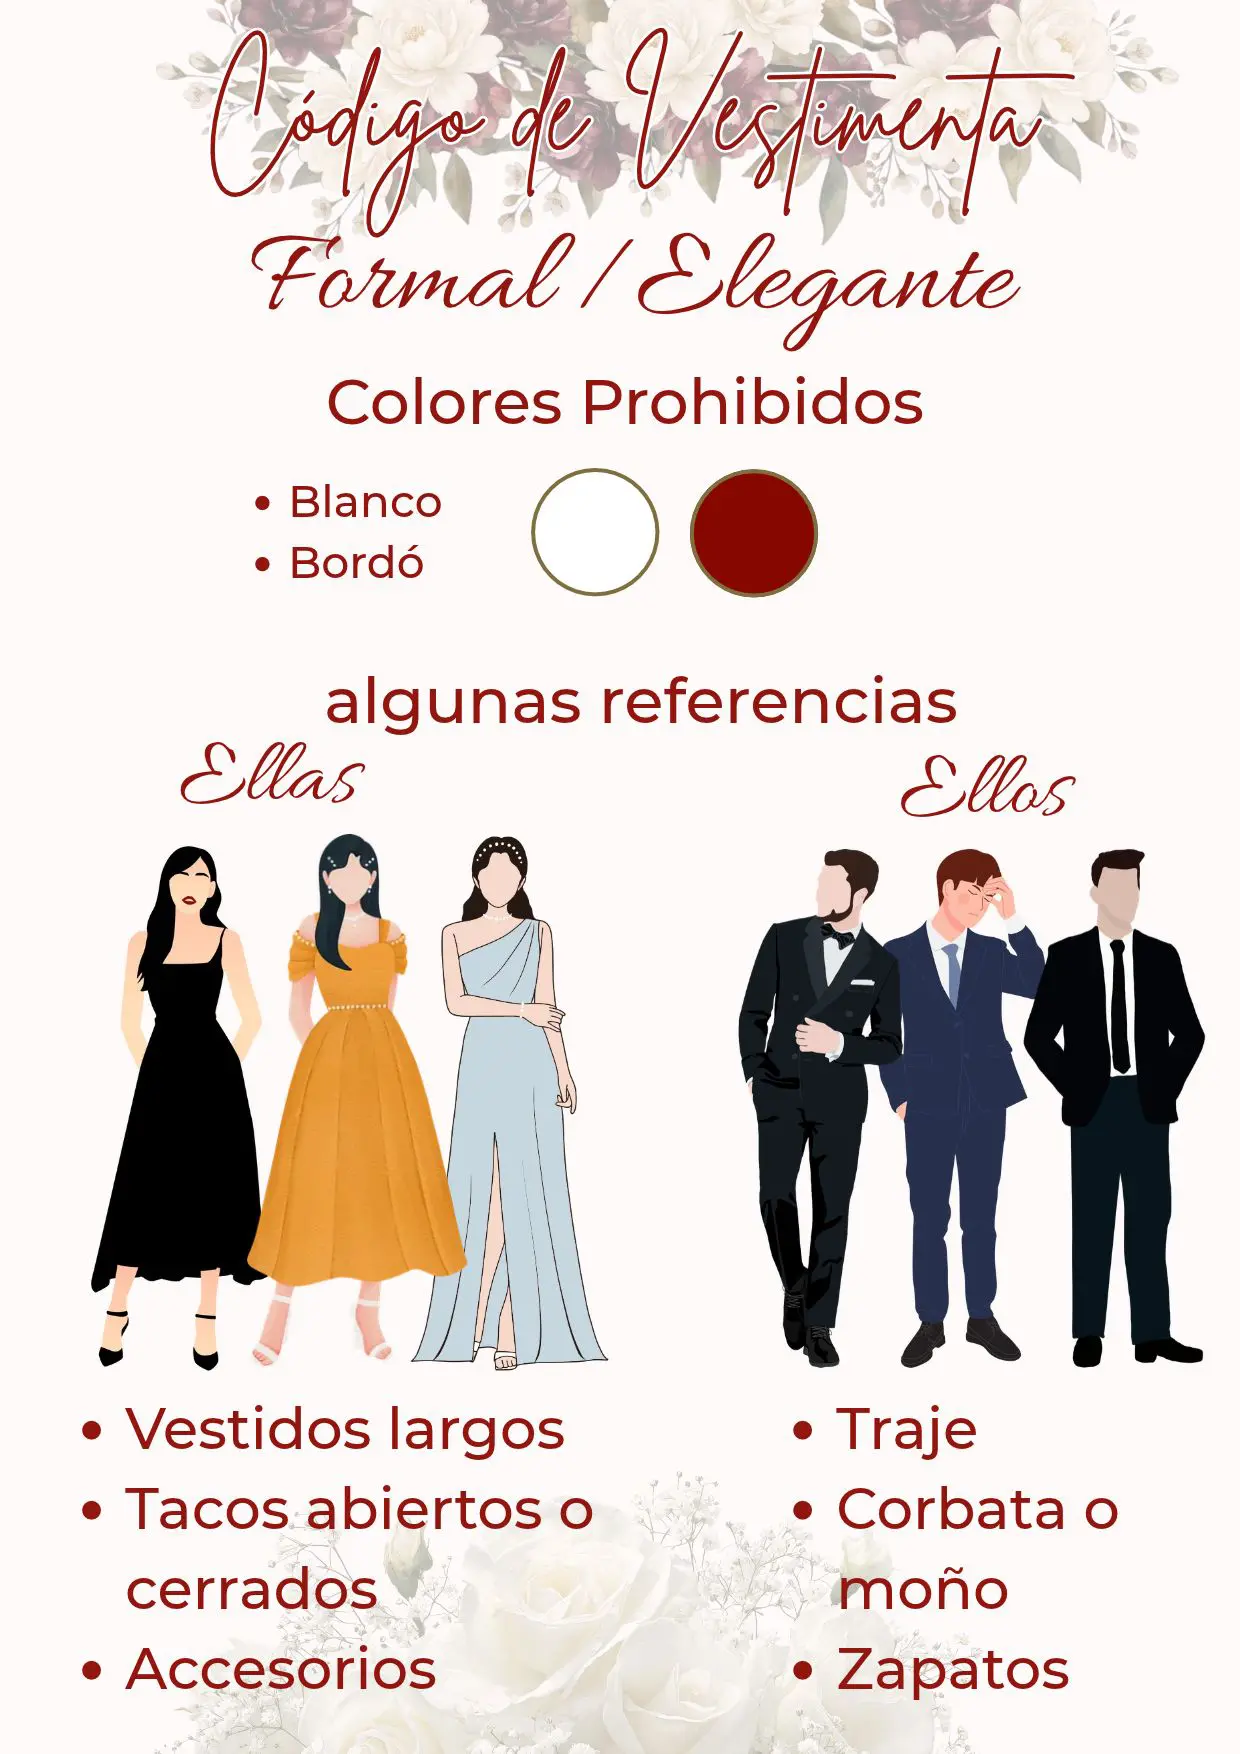
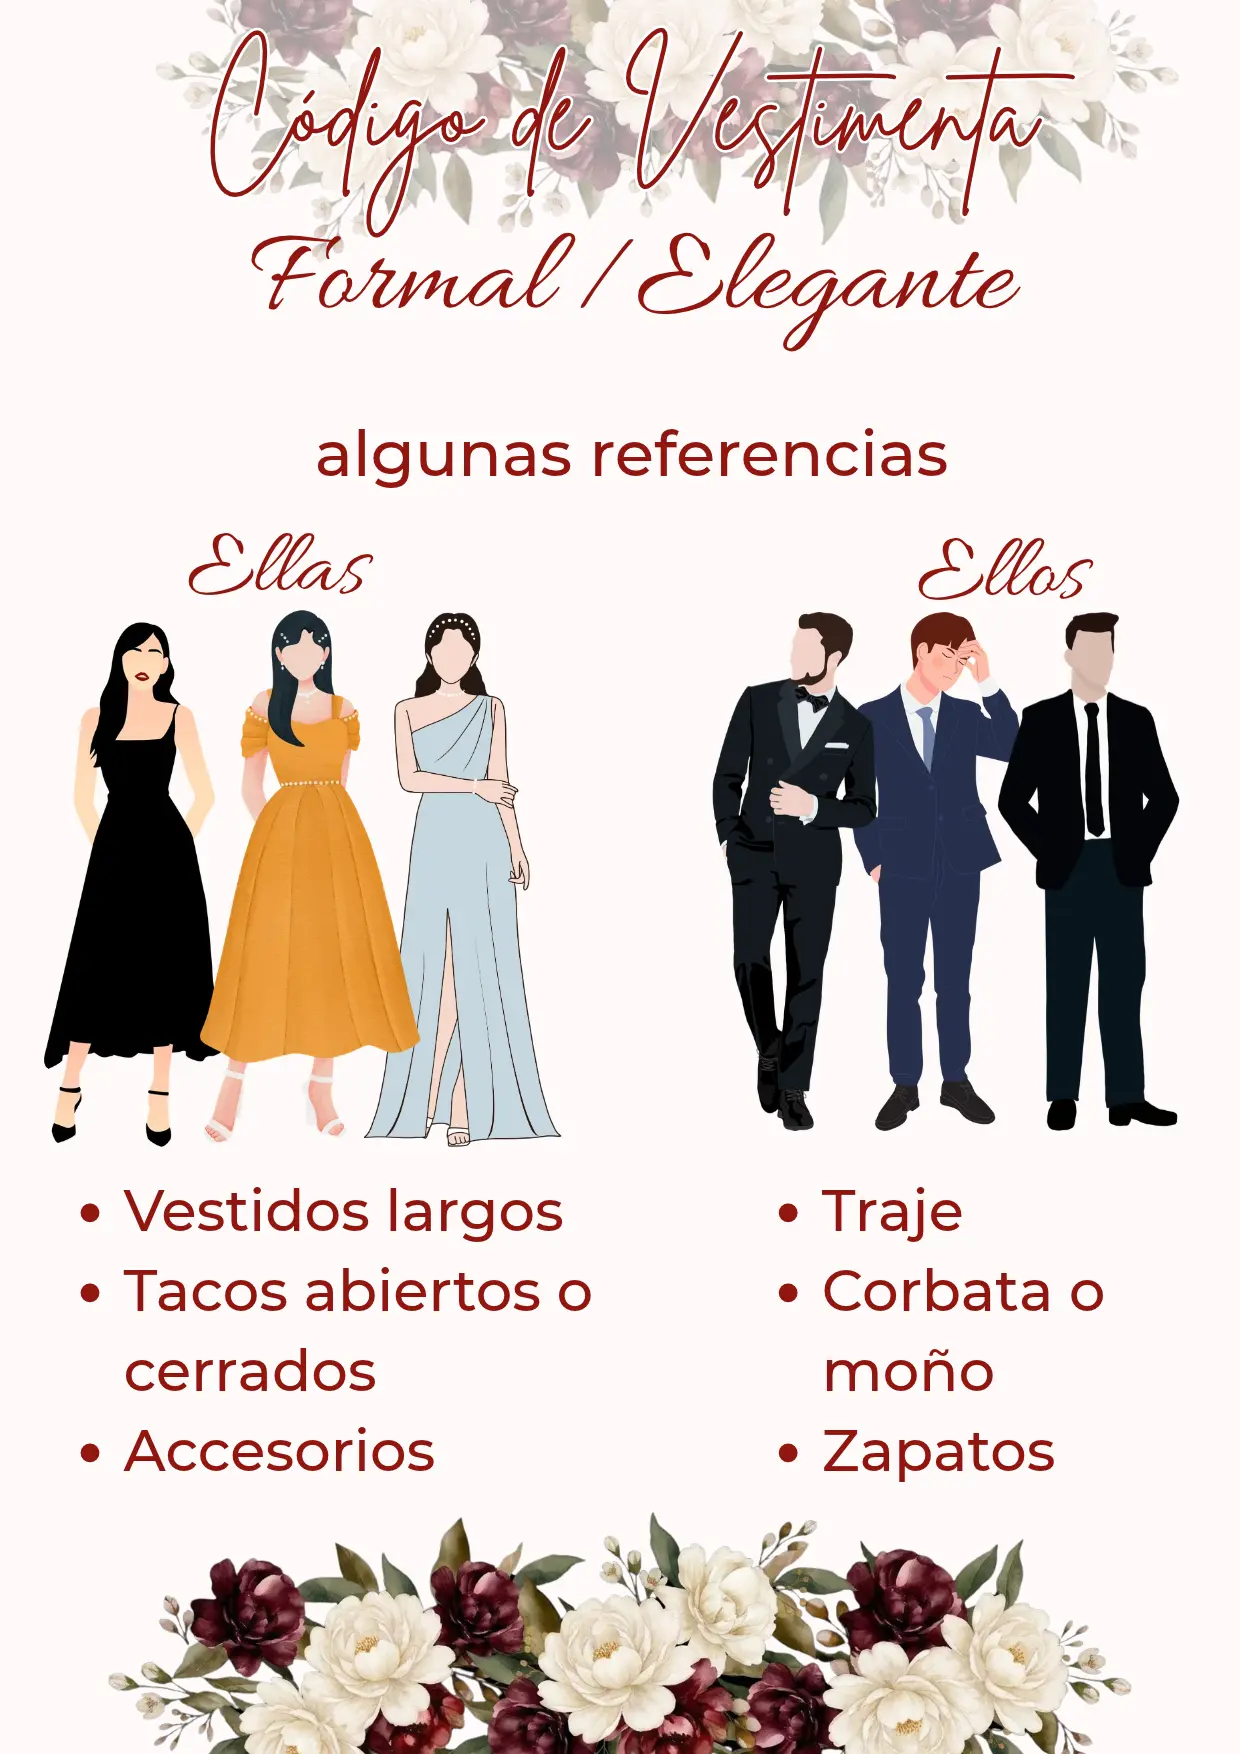
init commit

diff --git a/index.html b/index.html
@@ -335,7 +335,7 @@
                         <img class="itinerario__icon icon2" src="assets/imagenes/iconos/iconoINVITADOS.webp" alt="">
                         <div class="text left">
                             <h6 class="itinerario__name">Ingreso de Invitados</h6>
-                            <h6 class="itinerario__name itinerario__name2">22:00hs</h6>
+                            <h6 class="itinerario__name itinerario__name2">21:45hs</h6>
                         </div>
                     </article>
 
@@ -343,7 +343,7 @@
                         <img class="itinerario__icon icon3" src="assets/imagenes/iconos/iconoNOVIOS.webp" alt="">
                         <div class="text right">
                             <h6 class="itinerario__name">Nuestro ingreso</h6>
-                            <h6 class="itinerario__name itinerario__name2">23:00hs</h6>
+                            <h6 class="itinerario__name itinerario__name2">22:00hs</h6>
                         </div>
                     </article>
 
@@ -351,7 +351,7 @@
                         <img class="itinerario__icon icon4" src="assets/imagenes/iconos/iconoCENA.webp" alt="">
                         <div class="text left">
                             <h6 class="itinerario__name">Cena</h6>
-                            <h6 class="itinerario__name itinerario__name2">23:30hs</h6>
+                            <h6 class="itinerario__name itinerario__name2">22:30hs</h6>
                         </div>
                     </article>
                     <article class="itinerario__item item5">
@@ -396,7 +396,7 @@
 
             <h4 class="title title--active">Dresscode</h4>
             <h4 class="subtitle subtitle--active">Formal</h4>
-            <p class="dresscode__note">No usar vestimenta de color bordo ni blanco</p>
+            <!-- <p class="dresscode__note">No usar vestimenta de color bordo ni blanco</p> -->
             <img class="dresscode__img" src="assets/vectores/dresscodeVECTOR.svg" alt="">
 
             <button class="boton__cta" id="showImage" data-aos="fade-up">Ver Ejemplo</button>

diff --git a/service-worker.js b/service-worker.js
@@ -5,7 +5,7 @@
    - Al SUBIR: cambia SOLO este número (v1 -> v2 -> v3...). Nada más.
    ============================================================ */
 
-const VERSION = "v16";
+const VERSION = "v17";
 const CACHE = `invitacion-${VERSION}`;
 const FUENTES = "invitacion-fuentes";
 
